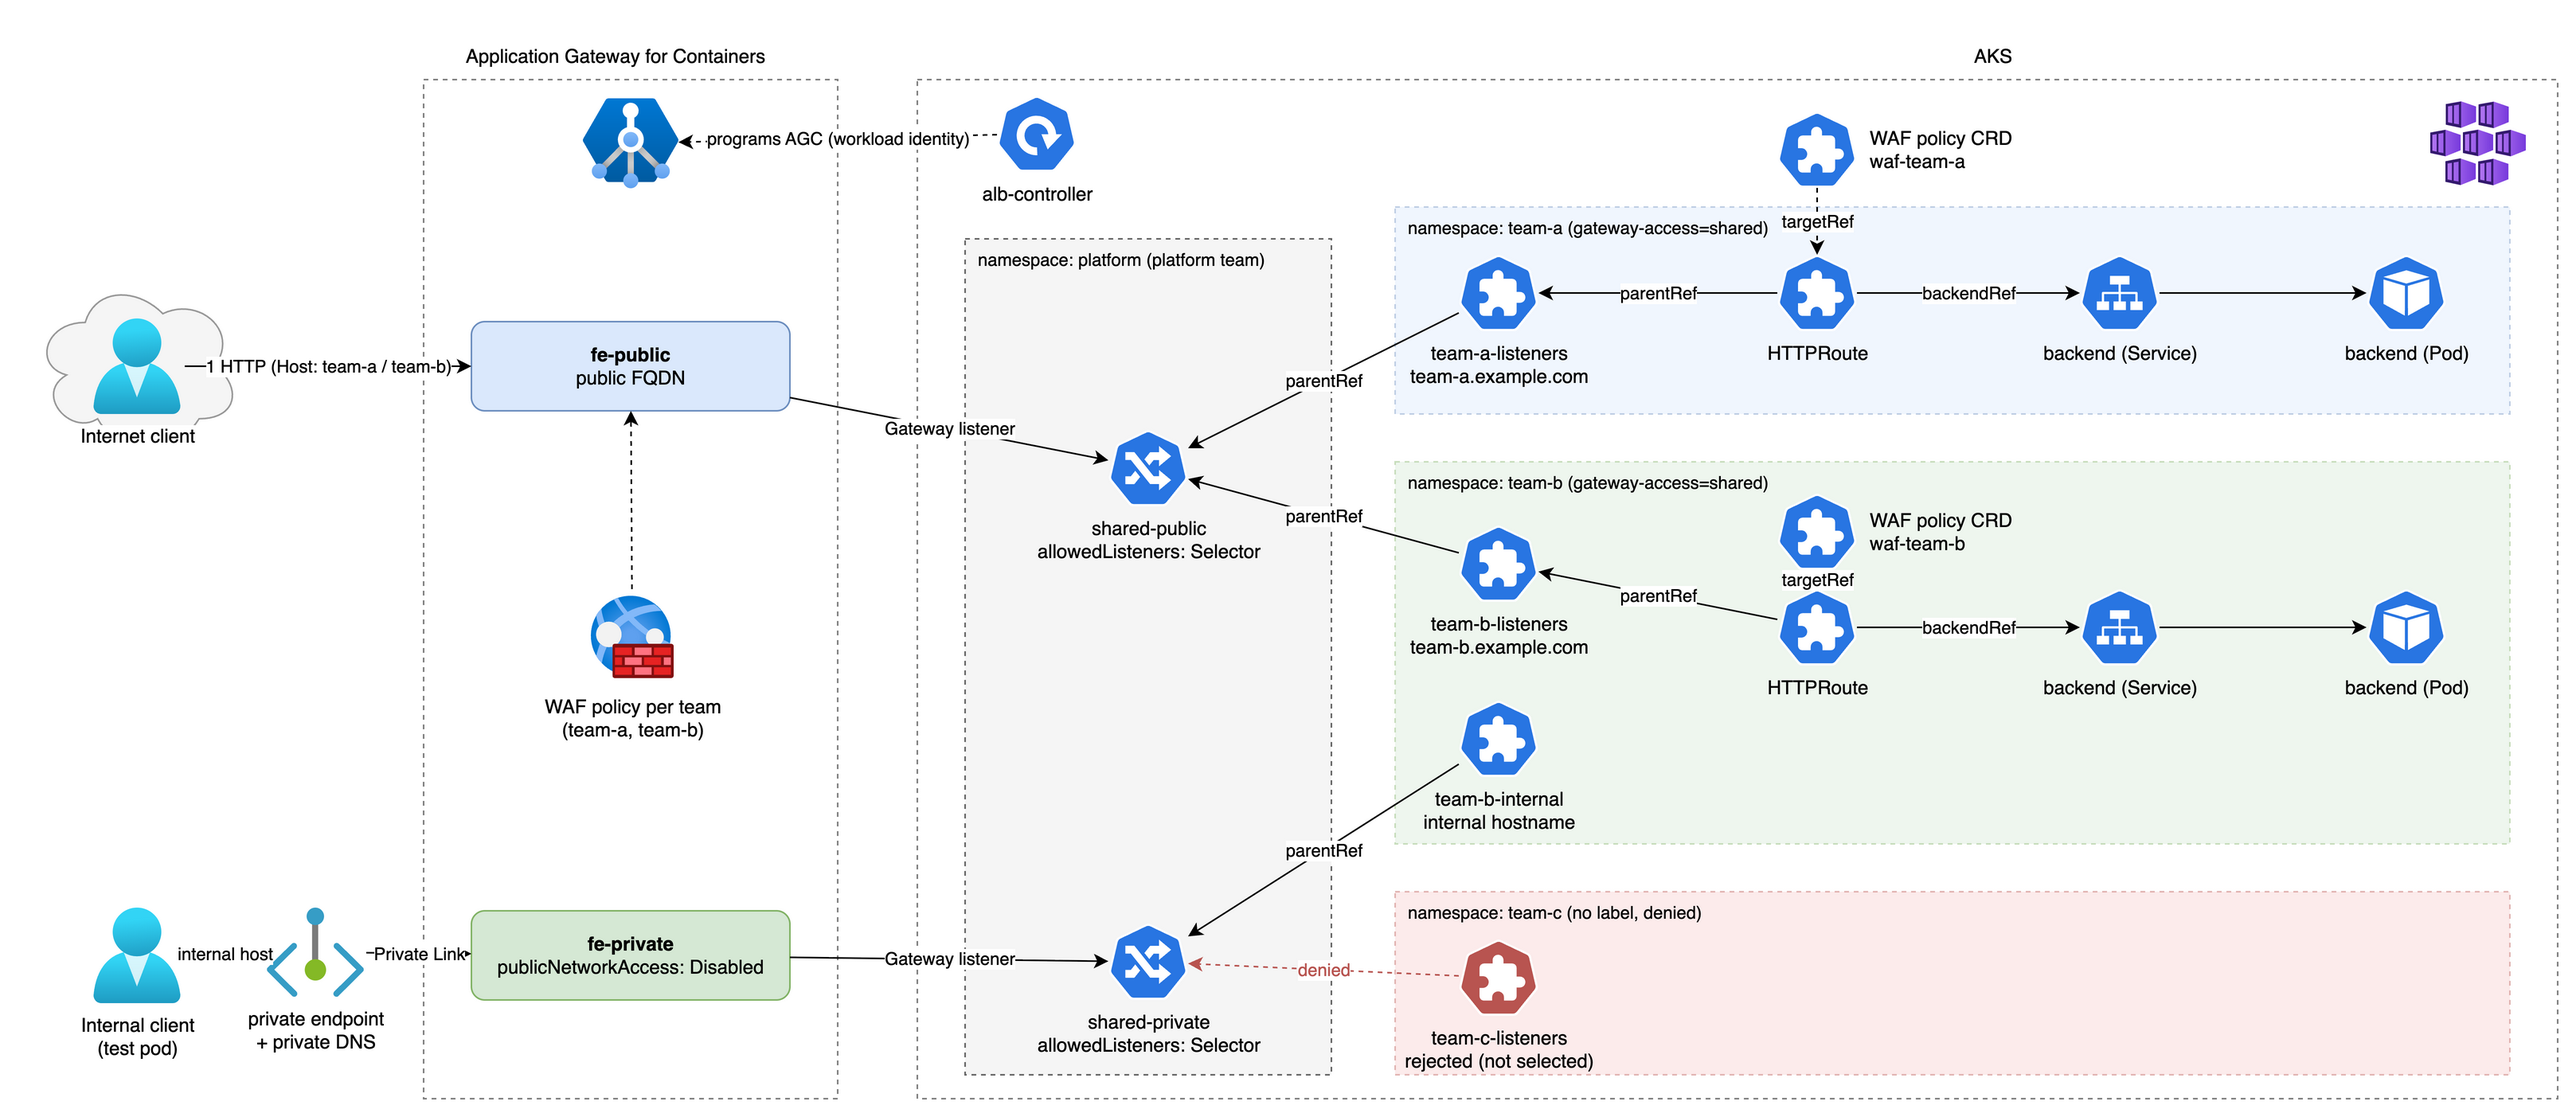
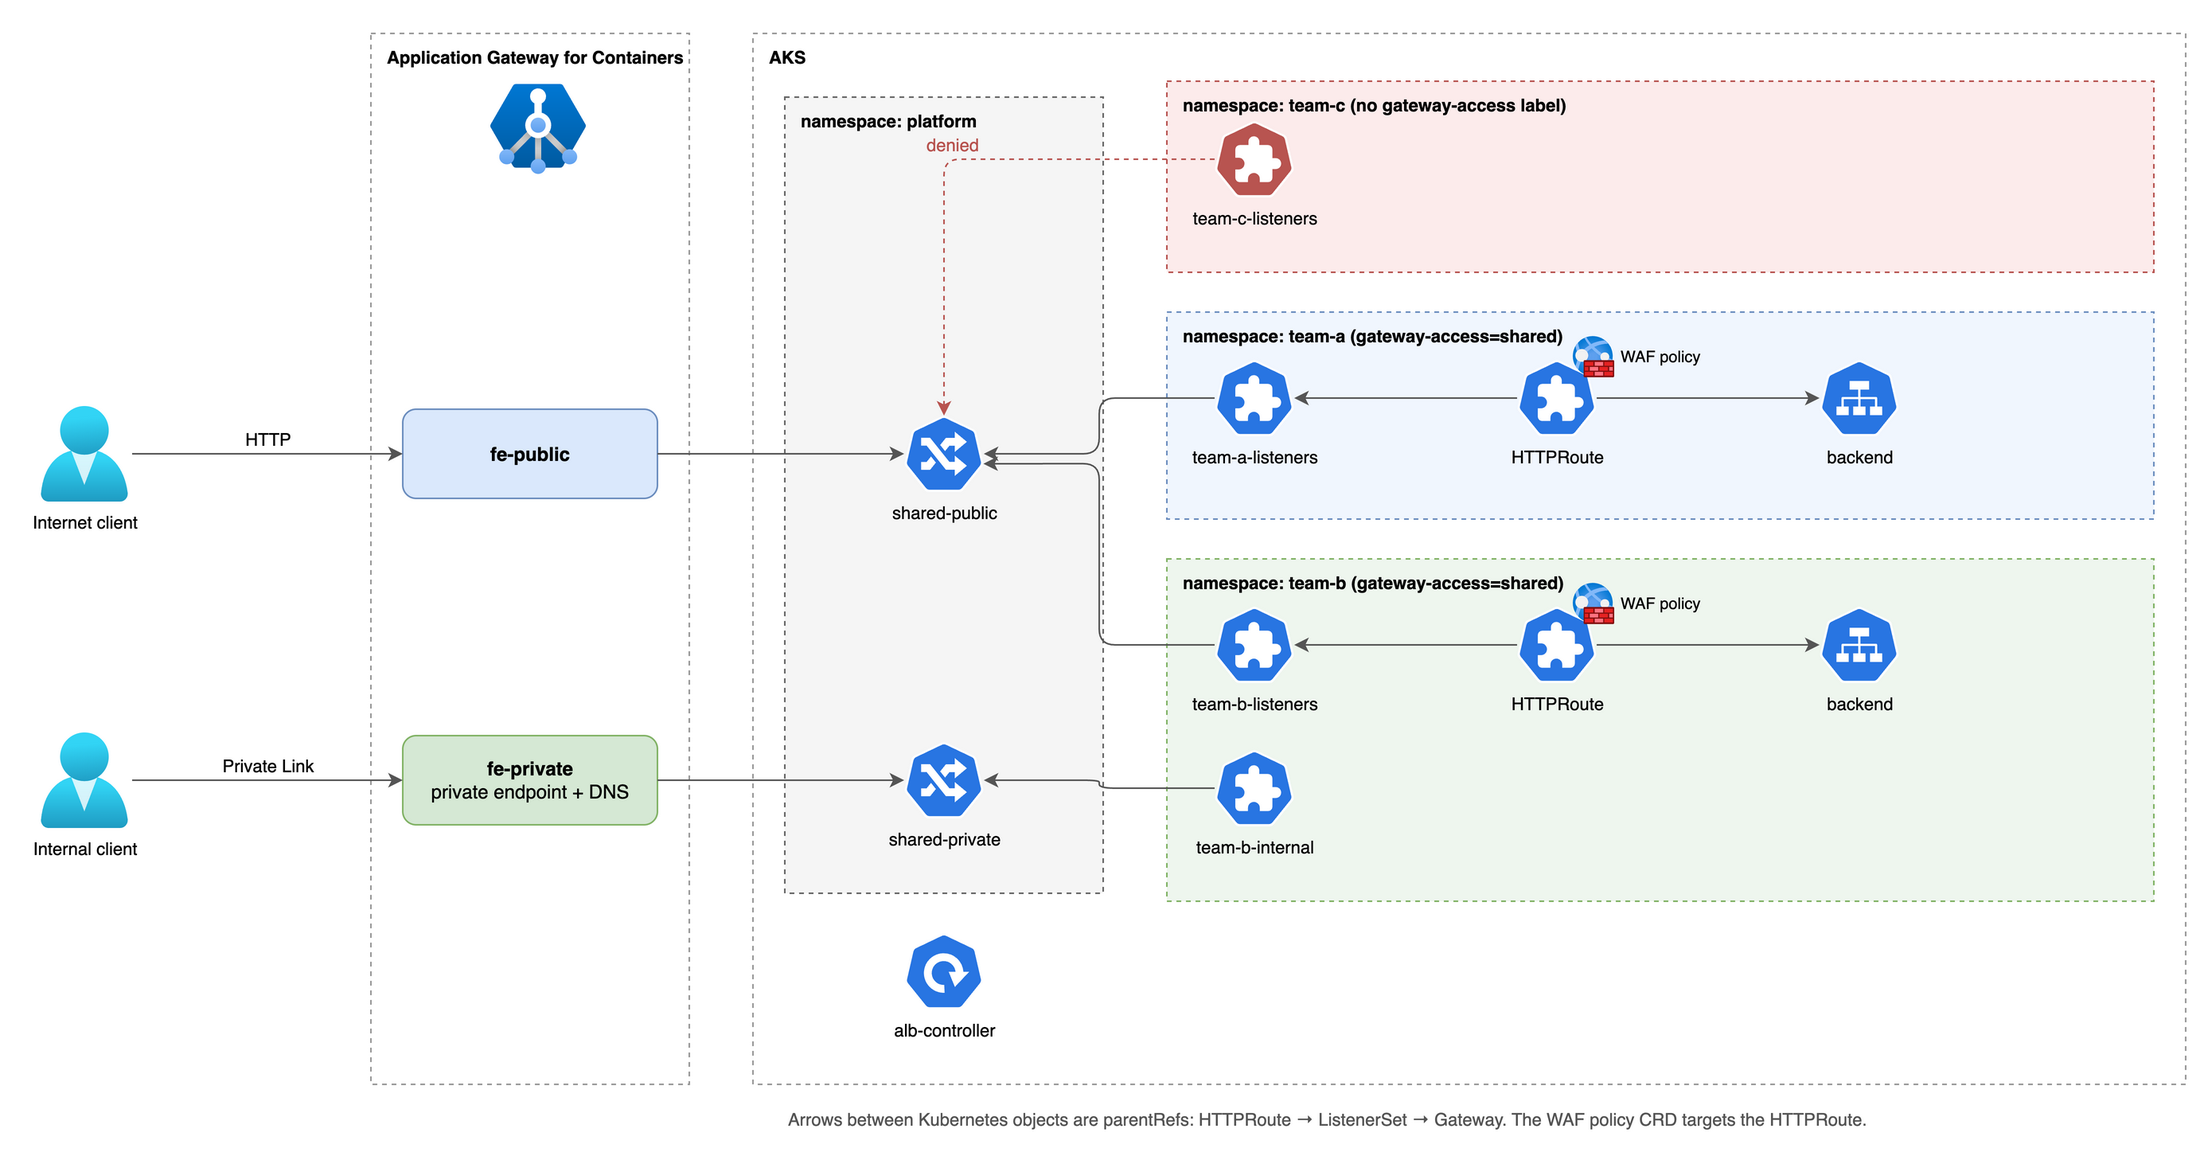
feat(posts): simplify architecture diagram and add scenario diagrams

diff --git a/content/posts/agc-listenerset-multi-team.md b/content/posts/agc-listenerset-multi-team.md
@@ -141,6 +141,8 @@ $ curl -s -o /dev/null -w "%{http_code}\n" -H "Host: team-b.example.com" http://
 
 ## A namespace without the label is denied
 
+![authorization](/media/agc-listenerset/diagram-authorization.png)
+
 `team-c` is not labeled and creates a ListenerSet anyway. The Gateway refuses it:
 
 ```
@@ -155,6 +157,8 @@ The AKS portal shows the result on the HTTP routes blade. `team-c-route` is *Not
 ![portal-httproutes](/media/agc-listenerset/portal-aks-httproutes-team-c-not-ready.png)
 
 ## A hostname conflict stays isolated
+
+![conflict](/media/agc-listenerset/diagram-conflict.png)
 
 I patched Team B's listener to use Team A's hostname:
 
@@ -258,6 +262,8 @@ The listeners that the teams attach through ListenerSets don't show up there. To
 
 ## HTTPS per team, certificates stay in the team namespace
 
+![tls](/media/agc-listenerset/diagram-tls.png)
+
 Each team can terminate TLS on its own listener. The certificate Secret lives in the team's namespace and is referenced from the ListenerSet, so no certificate has to be copied to the platform namespace:
 
 ```yaml
@@ -287,6 +293,8 @@ Both hostnames returned 200 through their own routes. I did not test whether one
 ## WAF policies on Gateway, ListenerSet and HTTPRoute
 
 The docs describe the policy on a Gateway or a route. I tried every level, with policies that block different paths, to see how they combine. The platform policy blocks `/blocked-platform`, Team A's blocks `/blocked-a`, Team B's `/blocked-b`.
+
+![waf-precedence](/media/agc-listenerset/diagram-waf-precedence.png)
 
 **1. On the ListenerSet.** The CRD accepts a ListenerSet as `targetRef`. It is not a documented target.
 
